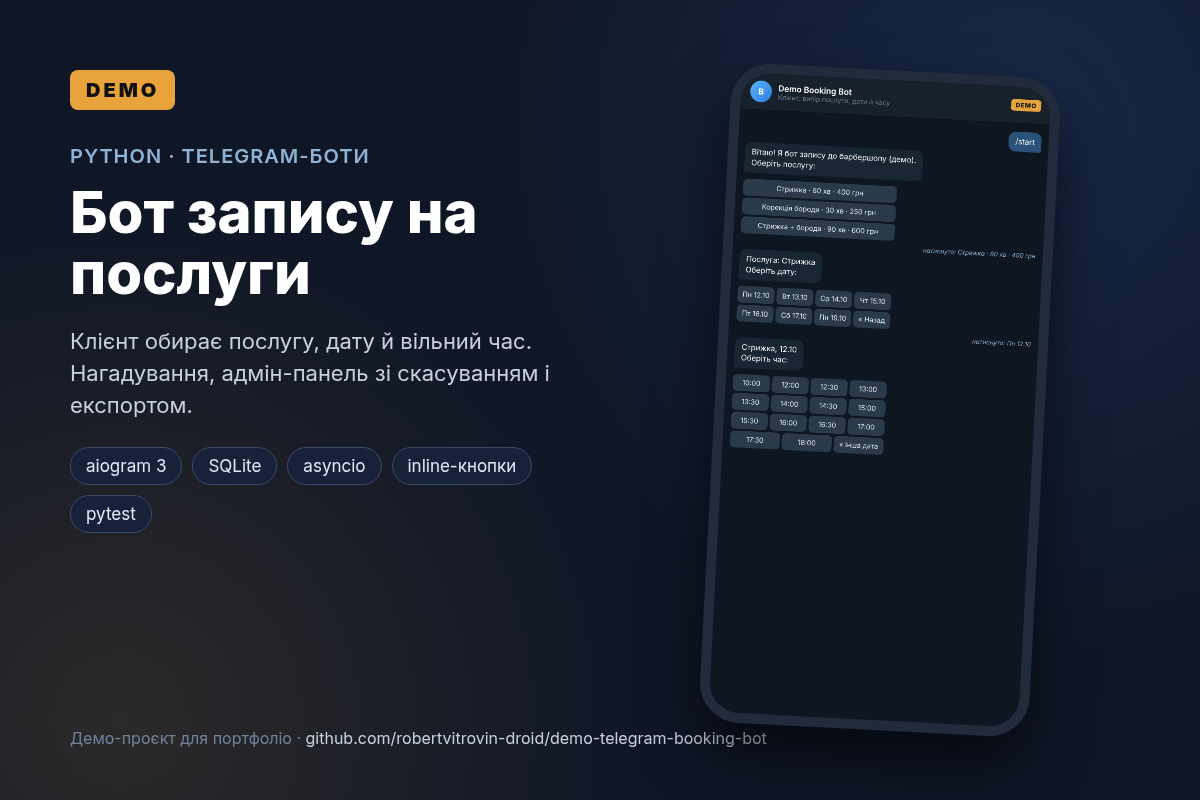
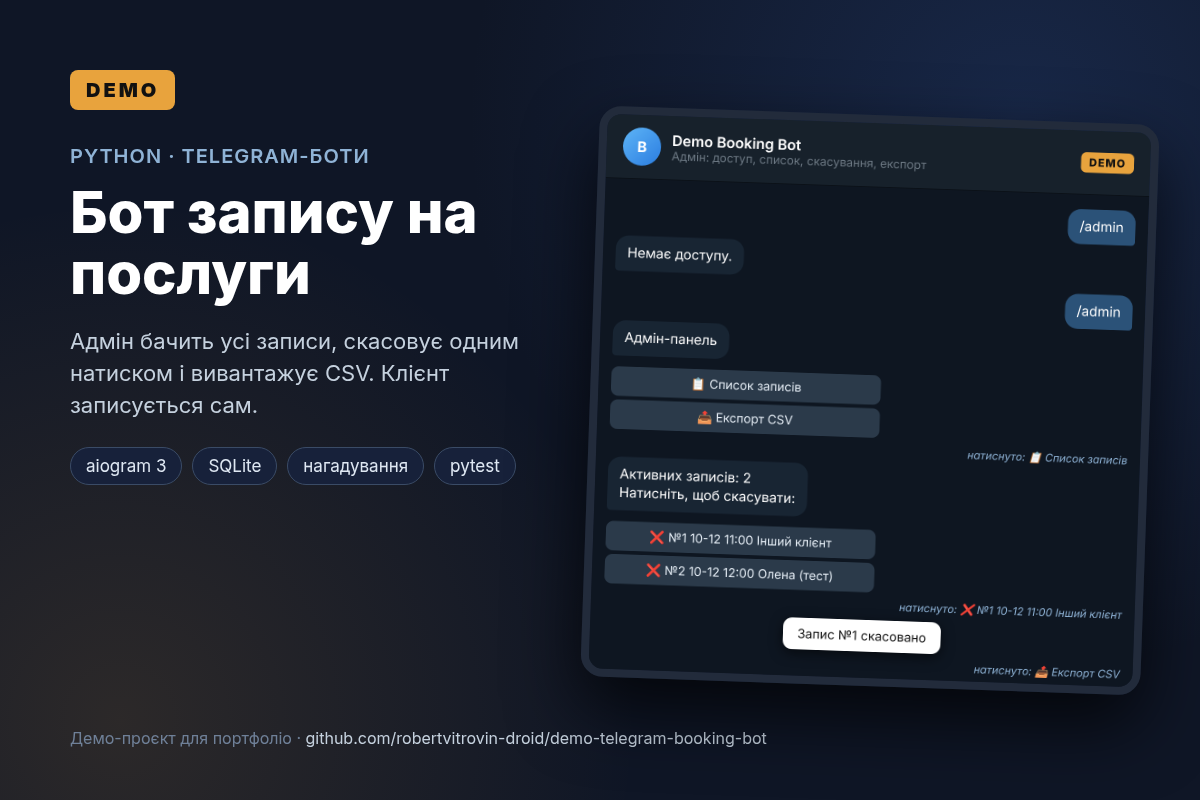
Portfolio review: result-first cover, evidence links, short description, 800x600+ images

diff --git a/PORTFOLIO_UA.md b/PORTFOLIO_UA.md
@@ -1,21 +1,16 @@
-# Telegram-бот запису на послуги з адмін-панеллю (демо-проєкт)
+# Telegram-бот запису на послуги з адмін-панеллю (демо)
 
-**Демо-проєкт для портфоліо.** Зроблений для демонстрації навичок, не на замовлення клієнта. Салон, послуги й ціни умовні.
+**Демо-проєкт для портфоліо**, не робота для клієнта. Салон, послуги й ціни умовні.
 
-**Задача.** Невеликому сервісному бізнесу (барбершоп, салон, майстер, консультант) потрібен запис клієнтів без дзвінків і переписок: щоб людина сама бачила вільний час, а власник мав список записів під рукою.
+**Задача.** Дати клієнтам записуватися самостійно, а власнику бачити й керувати записами в Telegram.
 
-**Рішення.**
-- Сценарій у 4 кроки на inline-кнопках: послуга → дата → вільний слот → підтвердження, з кнопкою «Назад» на кожному кроці.
-- Слоти рахуються з урахуванням тривалості послуги, робочих годин, вихідних і вже зайнятого часу; минулий час не показується.
-- Захист від подвійного запису: два клієнти не можуть взяти один слот навіть одночасно.
-- Автоматичне нагадування клієнту за 2 години (налаштовується).
-- `/admin` лише для власника: список записів, скасування однією кнопкою, вивантаження всіх записів у CSV для Excel.
-- Дані в SQLite, без платних сервісів; запуск однією командою.
+**Що зроблено.**
+- Запис у 4 кроки кнопками: послуга → дата → вільний час → підтвердження.
+- Вільні слоти з урахуванням тривалості, графіка й зайнятого часу; один слот не можна зайняти двічі.
+- Нагадування клієнту; `/admin`: список записів, скасування одним натиском, експорт CSV.
 
-**Стек.** Python 3, aiogram 3, asyncio, SQLite, pytest.
+**Результат.** Логіка слотів, захист від подвійного запису, скасування, експорт і нагадування покриті 8 [тестами](https://github.com/robertvitrovin-droid/demo-telegram-booking-bot/blob/main/tests/test_slots.py). Сценарій клієнта й адміна прогнано через справжні обробники в демо-режимі без токена ([transcript.json](https://github.com/robertvitrovin-droid/demo-telegram-booking-bot/blob/main/demo/transcript.json), [скриншоти](https://github.com/robertvitrovin-droid/demo-telegram-booking-bot/tree/main/screenshots)).
 
-**Результат.** Робочий бот із покритою тестами логікою слотів (8 тестів), демо-режимом без токена, де справжні обробники проганяються через імітацію Telegram API, і скриншотами повного сценарію клієнта та адміністратора. Можна адаптувати під свої послуги, графік і мову за 1–2 дні.
+**Посилання.** [Код на GitHub](https://github.com/robertvitrovin-droid/demo-telegram-booking-bot)
 
-**Ціна від:** 5 000 грн · термін від 3 днів
-
-**Посилання.** Код: https://github.com/robertvitrovin-droid/demo-telegram-booking-bot
+Стек: Python, aiogram 3, SQLite, asyncio, pytest · **Ціна від 5 000 грн**, від 3 днів
